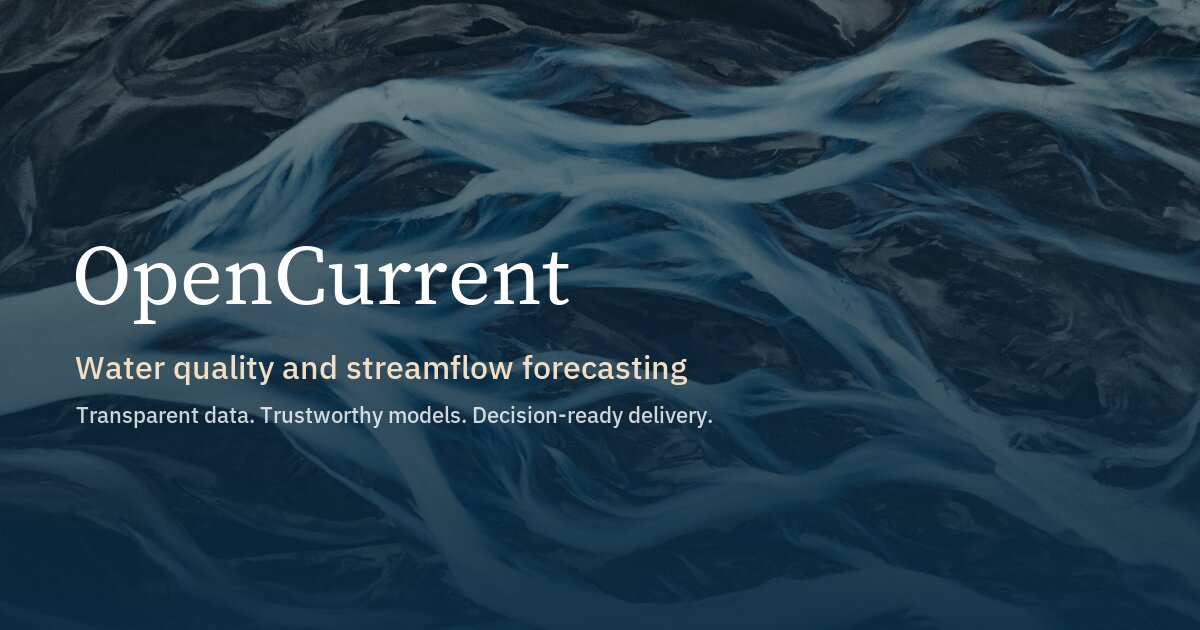
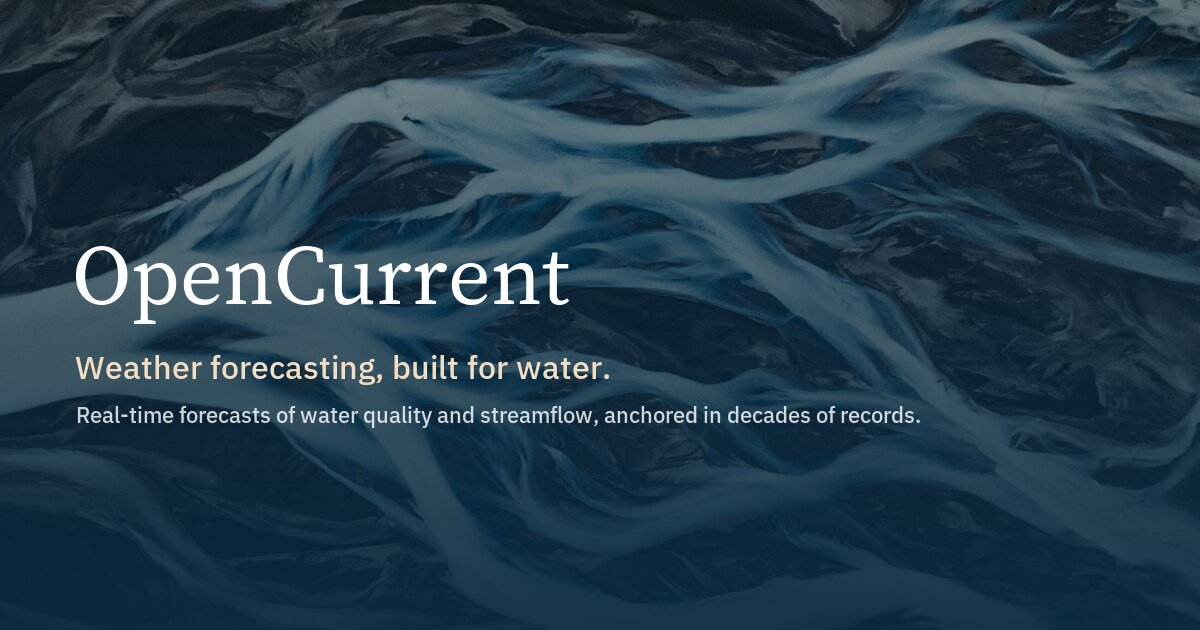
text edits to workshop

Changed region(s): [[0.0617, 0.6333, 0.7708, 0.6937], [0.0925, 0.5429, 0.5858, 0.6032]]

diff --git a/index.html b/index.html
@@ -4,13 +4,13 @@
   <meta charset="utf-8">
   <meta name="viewport" content="width=device-width, initial-scale=1">
   <title>OpenCurrent — Water Quality and Streamflow Forecasting</title>
-  <meta name="description" content="OpenCurrent builds transparent, physics-informed forecasts of water quality and streamflow for utilities, watershed groups, and agencies, including in basins with little or no gauging.">
+  <meta name="description" content="OpenCurrent turns decades of monitoring records and modern sensor networks into real-time forecasts of water quality and streamflow, and builds them so your team can own them.">
   <meta name="theme-color" content="#0d3b5c">
   <meta name="color-scheme" content="light">
   <link rel="canonical" href="https://opencurrent.us/">
   <meta property="og:site_name" content="OpenCurrent">
   <meta property="og:title" content="OpenCurrent — Water Quality and Streamflow Forecasting">
-  <meta property="og:description" content="Transparent, physics-informed forecasts of water quality and streamflow, built for decision-makers.">
+  <meta property="og:description" content="Weather forecasting, built for water. Real-time forecasts of water quality and streamflow, anchored in historical ground truth.">
   <meta property="og:type" content="website">
   <meta property="og:url" content="https://opencurrent.us/">
   <meta property="og:image" content="https://opencurrent.us/assets/img/og-image.jpg">
@@ -50,8 +50,8 @@
       </div>
       <div class="container hero-inner">
         <p class="eyebrow">Water quality &amp; streamflow forecasting</p>
-        <h1 id="hero-title">Transparent data.<br>Trustworthy solutions.</h1>
-        <p class="lead">We bring together diverse environmental datasets, harmonize them with care, and apply advanced modeling, from machine learning to physics-informed approaches, to solve critical water problems. Our work is transparent by design, so decision-makers can trust not just the answers, but the process behind them.</p>
+        <h1 id="hero-title">Weather forecasting, built for water.</h1>
+        <p class="lead">OpenCurrent turns decades of monitoring records and modern sensor networks into real-time forecasts, so environmental managers can anticipate change instead of reacting to it.</p>
         <div class="hero-cta">
           <a class="btn light" href="/contact.html">Work with us</a>
           <a class="btn ghost on-dark" href="/about.html">Meet the team</a>
@@ -63,23 +63,23 @@
       <div class="container">
         <div class="section-head">
           <p class="eyebrow">What we do</p>
-          <h2 id="pillars-title">Forecasts built for lead time, not hindsight</h2>
+          <h2 id="pillars-title">From archived records to forecasts your team runs</h2>
         </div>
         <div class="grid-3">
           <div class="card">
+            <svg class="icon" viewBox="0 0 40 40" fill="none" stroke="currentColor" stroke-width="2.2" stroke-linecap="round" stroke-linejoin="round" aria-hidden="true"><path d="M8 6h18l6 6v22H8z"/><path d="M26 6v6h6"/><path d="M13 20h14M13 26h14M13 32h8"/></svg>
+            <h3>Harmonize the past</h3>
+            <p>Unify fragmented, multi-decade sampling archives into clean, analysis-ready datasets that give predictive models the ground truth they need.</p>
+          </div>
+          <div class="card">
             <svg class="icon" viewBox="0 0 40 40" fill="none" stroke="currentColor" stroke-width="2.2" stroke-linecap="round" stroke-linejoin="round" aria-hidden="true"><path d="M5 31h30"/><path d="M7 26l7-9 6 5 7-11 6 6"/><circle cx="33" cy="17" r="2" fill="currentColor" stroke="none"/></svg>
-            <h3>Water quality forecasting</h3>
-            <p>Short-to-seasonal predictions for <abbr title="Escherichia coli">E. coli</abbr>, turbidity, and other water-quality parameters, built for managers who need lead time, not just hindsight.</p>
+            <h3>Forecast in real time</h3>
+            <p>Blend satellite remote sensing, in-situ sensor networks, and physics-informed machine learning to forecast turbidity, nutrients, and flow days before a problem reaches the intake.</p>
           </div>
           <div class="card">
-            <svg class="icon" viewBox="0 0 40 40" fill="none" stroke="currentColor" stroke-width="2.2" stroke-linecap="round" stroke-linejoin="round" aria-hidden="true"><path d="M4 12c6-4 10 4 16 0s10 4 16 0"/><path d="M4 20c6-4 10 4 16 0s10 4 16 0"/><path d="M4 28c6-4 10 4 16 0s10 4 16 0"/></svg>
-            <h3>Discharge in ungauged basins</h3>
-            <p>Hybrid models that fuse physics, regionalization, and earth observation to estimate flow where ground gauges are sparse or absent, with a focus on headwater regions.</p>
-          </div>
-          <div class="card">
-            <svg class="icon" viewBox="0 0 40 40" fill="none" stroke="currentColor" stroke-width="2.2" stroke-linecap="round" stroke-linejoin="round" aria-hidden="true"><rect x="5" y="7" width="30" height="22" rx="3"/><path d="M14 35h12M20 29v6"/><path d="M11 22l5-6 4 4 6-8 3 3"/></svg>
-            <h3>Decision-ready delivery</h3>
-            <p>Intuitive dashboards and knowledgeable support, designed so practitioners at every level can engage with our data and act on it confidently.</p>
+            <svg class="icon" viewBox="0 0 40 40" fill="none" stroke="currentColor" stroke-width="2.2" stroke-linecap="round" stroke-linejoin="round" aria-hidden="true"><circle cx="20" cy="14" r="6"/><path d="M8 34c0-6.6 5.4-11 12-11s12 4.4 12 11"/><path d="M30 8l3 3 5-5"/></svg>
+            <h3>Build for ownership</h3>
+            <p>Deliver open, maintainable code alongside hands-on coaching, so your team runs and controls its own forecasting pipelines.</p>
           </div>
         </div>
       </div>
@@ -87,15 +87,12 @@
 
     <section class="approach band" aria-labelledby="approach-title">
       <div class="container two-col">
-        <div>
-          <p class="eyebrow">How we work</p>
-          <h2 id="approach-title">Our approach</h2>
-          <ul class="checklist">
-            <li>Data- and physics-informed models, not black boxes</li>
-            <li>Remote sensing and in-situ sensors, harmonized</li>
-            <li>Open data and a transparent approach</li>
-            <li>Collaborations with utilities, watershed groups, and agencies</li>
-          </ul>
+        <div class="prose">
+          <p class="eyebrow">Why now</p>
+          <h2 id="approach-title">Monitoring was built for a climate that no longer exists</h2>
+          <p>Quarterly grab samples were designed for a world that changed slowly. Today, watersheds shift faster than static monitoring can track, and the move to continuous, real-time data too often abandons decades of baseline records along the way.</p>
+          <p>We bridge that divide. OpenCurrent brings weather-style forecasting to water quality and quantity by anchoring modern machine learning in historical ground truth.</p>
+          <p>And we reject the black box. We build alongside our partners, coaching their teams to understand, run, and own the code they rely on.</p>
           <a class="text-link" href="/about.html">Where we come from</a>
         </div>
         <figure class="figure">
@@ -107,29 +104,37 @@
       </div>
     </section>
 
-    <!--
-    PROOF SECTIONS (fill in when text and logos are ready). Suggested shapes:
-
-    <section class="numbers" aria-label="Track record">
-      <div class="container grid-3">
-        <div class="card"><h3>NNN</h3><p>sites harmonized in MacroSheds</p></div>
-        <div class="card"><h3>NN</h3><p>peer-reviewed publications</p></div>
-        <div class="card"><h3>NN</h3><p>agency and utility collaborators</p></div>
-      </div>
-    </section>
-
-    <section class="partners" aria-label="Partners and institutions">
+    <section class="capabilities" aria-labelledby="cap-title">
       <div class="container">
-        <p class="eyebrow">Built with</p>
-        <div class="logo-row"> ...grey partner logos... </div>
+        <div class="section-head">
+          <p class="eyebrow">Capabilities</p>
+          <h2 id="cap-title">What this looks like in practice</h2>
+        </div>
+        <div class="grid-2">
+          <div class="card">
+            <h3>Satellite-to-stream water quality</h3>
+            <p>Calibrating remote sensing algorithms against historical grab samples to map lake and reservoir dynamics across space and time.</p>
+          </div>
+          <div class="card">
+            <h3>Continuous sensor deployment</h3>
+            <p>Designing and integrating in-stream sensor arrays that translate raw voltage into immediate decision support.</p>
+          </div>
+          <div class="card">
+            <h3>Predictive modeling workflows</h3>
+            <p>Training catchment-scale models that forecast acute water-quality events, such as post-fire sediment runoff or bloom conditions, from upstream precipitation and weather forecasts.</p>
+          </div>
+          <div class="card">
+            <h3>Institutional coaching</h3>
+            <p>Running hands-on sprints with municipal and watershed scientists to demystify automated workflows, version control, and AI-assisted coding tools.</p>
+          </div>
+        </div>
       </div>
     </section>
-    -->
 
     <section class="cta-band band-dark">
       <div class="container">
-        <h2>Have sites, data, or a problem in mind?</h2>
-        <p>Tell us about your watershed and what you need to decide. We will tell you honestly what is possible.</p>
+        <h2>Environmental forecasting you actually own.</h2>
+        <p>Tell us what you need to anticipate and when. We will tell you what is feasible and what it would take.</p>
         <div class="hero-cta">
           <a class="btn light" href="/contact.html">Start a conversation</a>
         </div>

diff --git a/about.html b/about.html
@@ -48,7 +48,56 @@
       <div class="container">
         <p class="eyebrow">About</p>
         <h1>Where we come from</h1>
-        <p class="lead">Before we started OpenCurrent, we were (and still are!) academics and innovators who focus on harmonizing disparate datasets to maximize their use to society. These efforts produced <a href="https://www.rossyndicate.com/projects/macrosheds">MacroSheds</a> and <a href="https://www.rossyndicate.com/projects/aquasat">AquaSat</a>. With these datasets, we built a suite of models and tools to better understand how headwaters function and change, and how to democratize remote sensing of water quality. We started OpenCurrent to bring these innovations to the water resource sector at scale.</p>
+        <p class="lead">Before we started OpenCurrent, we were (and still are) academics and innovators focused on harmonizing disparate datasets to maximize their value to society. That work produced <a href="https://www.rossyndicate.com/projects/macrosheds">MacroSheds</a> and <a href="https://www.rossyndicate.com/projects/aquasat">AquaSat</a>. On those foundations we built models and tools to understand how headwaters function and change, and to democratize remote sensing of water quality. We started OpenCurrent to bring these innovations to the water resource sector at scale.</p>
+      </div>
+    </section>
+
+    <section class="origin" aria-labelledby="origin-title">
+      <div class="container two-col">
+        <div class="prose">
+          <p class="eyebrow">Who we are</p>
+          <h2 id="origin-title">Built by the people who built the data</h2>
+          <p>Between us we have spent years assembling, cleaning, and publishing the environmental datasets that watershed science runs on, and years turning those datasets into models that agencies and researchers use.</p>
+          <p>OpenCurrent is how we put that experience to work for the people who manage water: utilities, watershed groups, and agencies that need to see change coming and want to run the tools themselves.</p>
+        </div>
+        <figure class="figure wide">
+          <picture>
+            <source type="image/webp" srcset="/assets/img/team-hike.webp">
+            <img src="/assets/img/team-hike.jpg" alt="The three OpenCurrent founders on a hike above treeline in the Colorado mountains" loading="lazy" width="1600" height="1200">
+          </picture>
+          <figcaption>Field meeting, Colorado high country.</figcaption>
+        </figure>
+      </div>
+    </section>
+
+    <section class="products band" aria-labelledby="products-title">
+      <div class="container">
+        <div class="section-head">
+          <p class="eyebrow">Track record</p>
+          <h2 id="products-title">Open data platforms we built</h2>
+        </div>
+        <div class="grid-2">
+          <div class="card product">
+            <p class="meta">NSF-funded · Colorado State &amp; Duke</p>
+            <h3><a href="https://macrosheds.org">MacroSheds</a></h3>
+            <p>An open platform integrating stream chemistry, discharge, precipitation, and watershed attributes from hundreds of long-term monitoring sites across North America, drawn from every agency and network that collects them.</p>
+          </div>
+          <div class="card product">
+            <p class="meta">600,000+ satellite matchups</p>
+            <h3><a href="https://www.rossyndicate.com/projects/aquasat">AquaSat</a></h3>
+            <p>The largest inland water-quality matchup dataset ever assembled, pairing in-situ measurements with satellite imagery so agencies and researchers can build remote sensing models at continental scale.</p>
+          </div>
+          <div class="card product">
+            <p class="meta">741 sites · 476 million observations</p>
+            <h3><a href="https://data.streampulse.org">StreamPULSE</a></h3>
+            <p>A collaborative platform for continuous stream sensor data and ecosystem metabolism modeling, contributed to by hundreds of researchers.</p>
+          </div>
+          <div class="card product">
+            <p class="meta">Records since 1963 · Hubbard Brook</p>
+            <h3><a href="https://hbwater.org">HBWatER</a></h3>
+            <p>The long-term record of precipitation and streamwater chemistry from the Hubbard Brook Experimental Forest, one of the longest continuous watershed datasets in the world.</p>
+          </div>
+        </div>
       </div>
     </section>
 
@@ -63,21 +112,21 @@
             <img src="/assets/img/RossMatthew.jpg" alt="Portrait of Matt Ross" class="avatar" loading="lazy">
             <h3>Matt Ross, PhD</h3>
             <p class="role">Co-founder &amp; CEO</p>
-            <p class="bio">Associate professor of watershed sciences at Colorado State University</p>
-            <!-- <ul class="person-links"><li><a href="...">Google Scholar</a></li><li><a href="...">LinkedIn</a></li></ul> -->
+            <p class="bio">Associate Professor of Watershed Science at Colorado State University and Faculty Director of CSU's Geospatial Centroid. Matt leads the <a href="https://www.rossyndicate.com">ROSSyndicate</a> lab and is a principal investigator on MacroSheds and AquaSat. His research focuses on improving how we use data and models to make better environmental decisions. PhD in Ecology, Duke University.</p>
+            <!-- <ul class="person-links"><li><a href="...">Google Scholar</a></li><li><a href="...">GitHub</a></li></ul> -->
           </article>
           <article class="person">
             <img src="/assets/img/adam.jpg" alt="Portrait of Adam Riggsbee" class="avatar" loading="lazy">
             <h3>Adam Riggsbee, PhD</h3>
             <p class="role">Co-founder &amp; Business Development Lead</p>
-            <p class="bio">Founder and President of <a href="https://www.riverbankconservation.com/">RiverBank</a>, a leading environmental mitigation banking firm</p>
+            <p class="bio">Founder and President of <a href="https://www.riverbankconservation.com/">RiverBank</a>, a leading environmental mitigation and conservation banking firm. Adam's background spans environmental science, policy, and business, and he has spent his career bridging academic researchers, regulators, and commercial clients on complex environmental permitting. He serves on the Board of Visitors of the UNC Institute for the Environment.</p>
             <!-- <ul class="person-links"><li><a href="...">LinkedIn</a></li></ul> -->
           </article>
           <article class="person">
             <img src="/assets/img/mike.jpg" alt="Portrait of Mike Vlah" class="avatar" loading="lazy">
             <h3>Mike Vlah, MS</h3>
             <p class="role">Co-founder &amp; Technical Lead</p>
-            <p class="bio">Lead developer of environmental data syntheses <a href="https://macrosheds.org">MacroSheds</a>, <a href="https://streampulse.org/">StreamPULSE</a>, and <a href="https://hbwater.org/">HBWater</a></p>
+            <p class="bio">Lead developer of <a href="https://macrosheds.org">MacroSheds</a>, <a href="https://data.streampulse.org">StreamPULSE</a>, and <a href="https://hbwater.org">HBWatER</a>, data systems that together serve hundreds of monitoring sites and hundreds of millions of observations to researchers and agencies. Mike builds the pipelines that turn raw, inconsistent environmental records into datasets and models people can trust.</p>
             <!-- <ul class="person-links"><li><a href="...">GitHub</a></li><li><a href="...">Google Scholar</a></li></ul> -->
           </article>
         </div>

diff --git a/assets/css/styles.css b/assets/css/styles.css
@@ -92,7 +92,7 @@ abbr[title] { text-decoration: none; }
     linear-gradient(90deg, rgba(9,42,66,.55) 0%, rgba(9,42,66,0) 70%);
 }
 .hero-inner { padding: 120px 24px 72px; }
-.hero h1 { color: #fff; max-width: 16ch; margin-bottom: .4em; text-shadow: 0 2px 24px rgba(0,0,0,.25); }
+.hero h1 { color: #fff; max-width: 20ch; text-wrap: balance; margin-bottom: .4em; text-shadow: 0 2px 24px rgba(0,0,0,.25); }
 .hero .lead { color: rgba(255,255,255,.88); max-width: 58ch; font-size: 1.25rem; }
 .hero .eyebrow { color: #f0b46b; }
 .hero-cta { margin-top: 28px; display: flex; gap: 14px; flex-wrap: wrap; }
@@ -101,6 +101,7 @@ abbr[title] { text-decoration: none; }
 section { padding: 72px 0; }
 .section-head { max-width: 62ch; margin-bottom: 40px; }
 .grid-3 { display: grid; grid-template-columns: repeat(3, minmax(0, 1fr)); gap: 24px; }
+.grid-2 { display: grid; grid-template-columns: repeat(2, minmax(0, 1fr)); gap: 24px; }
 .card {
   background: var(--surface); border: 1px solid var(--border); border-radius: var(--radius); padding: 28px 26px;
   box-shadow: var(--shadow);
@@ -110,6 +111,9 @@ section { padding: 72px 0; }
 .card .icon { width: 40px; height: 40px; color: var(--accent); margin-bottom: 16px; }
 
 .band { background: var(--tint); }
+.prose p { max-width: 62ch; }
+.product h3 a { color: var(--primary); }
+.product .meta { font-size: .85rem; font-weight: 700; letter-spacing: .06em; text-transform: uppercase; color: var(--accent); margin-bottom: .6em; }
 .band-dark { background: var(--primary); color: #fff; }
 .band-dark h2, .band-dark h3 { color: #fff; }
 .band-dark p { color: rgba(255,255,255,.85); }
@@ -123,6 +127,8 @@ section { padding: 72px 0; }
 }
 .figure { margin: 0; max-width: 420px; width: 100%; justify-self: end; border-radius: var(--radius); overflow: hidden; box-shadow: var(--shadow); }
 .figure img { width: 100%; height: auto; aspect-ratio: 4 / 5; object-fit: cover; }
+.figure.wide { max-width: 540px; }
+.figure.wide img { aspect-ratio: 4 / 3; }
 .figure figcaption { font-size: .85rem; color: var(--muted); padding: 10px 14px; background: var(--surface); }
 
 .cta-band { text-align: center; }
@@ -180,7 +186,7 @@ textarea { resize: vertical; min-height: 140px; }
 
 /* ---------- Responsive ---------- */
 @media (max-width: 960px) {
-  .grid-3 { grid-template-columns: 1fr; }
+  .grid-3, .grid-2 { grid-template-columns: 1fr; }
   .two-col, .contact-grid { grid-template-columns: 1fr; gap: 32px; }
   .footer-inner { grid-template-columns: 1fr 1fr; }
   .hero { min-height: 70vh; }
@@ -193,7 +199,7 @@ textarea { resize: vertical; min-height: 140px; }
   .brand span { display: none; }
   .nav a { padding: 8px 9px; }
   .footer-inner { grid-template-columns: 1fr; gap: 24px; padding: 40px 0 28px; }
-  .figure { max-width: none; }
+  .figure, .figure.wide { max-width: none; }
   .figure img { aspect-ratio: 4 / 3; }
 }
 @media (prefers-reduced-motion: reduce) {
